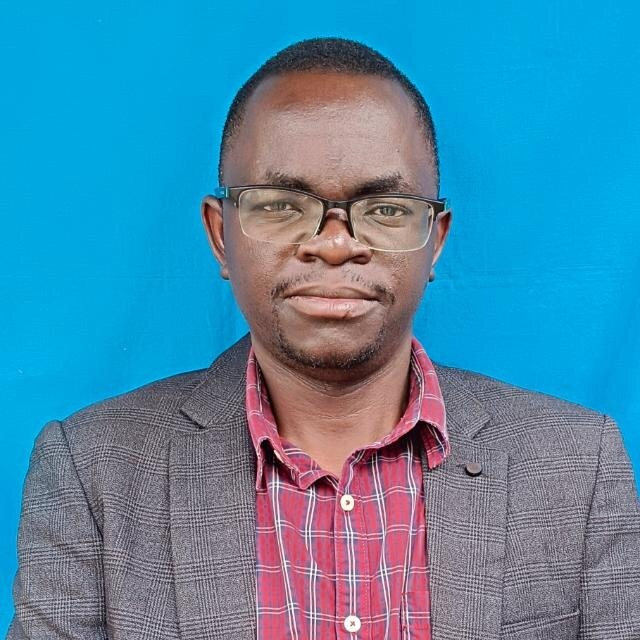
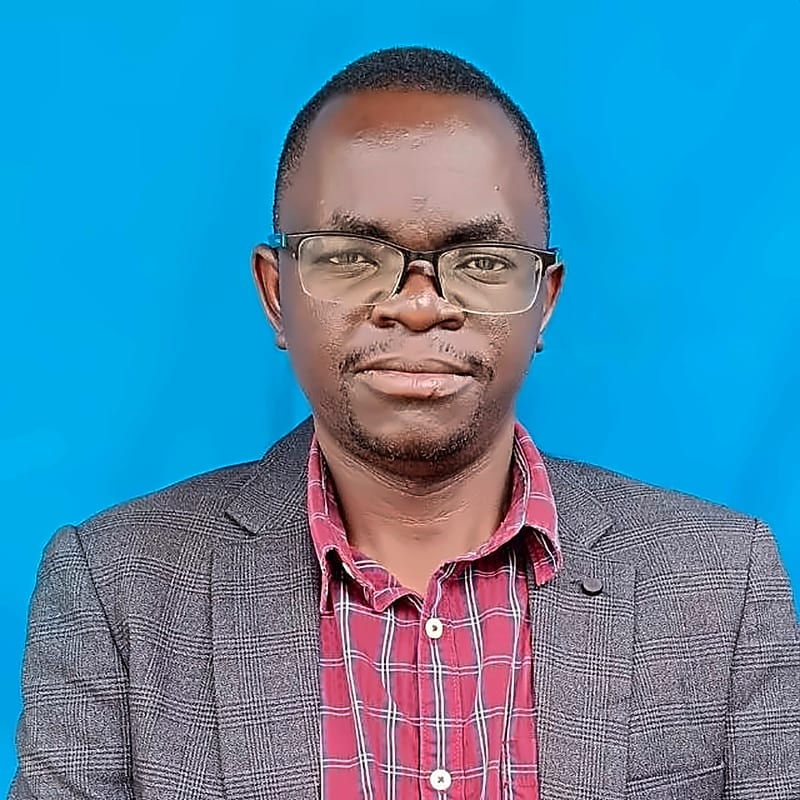
feat(editorial-board): add 12 member photos and wire them to profiles
Adds compressed portraits for bm-01 through bm-12 (Prabhatbhai Kasra,
Neha Nandaniya, Dilipbhai Vasava, Ajitsinh Gohil, Hamis Juma, Edgar
Nderego, Maheshkumar Parmar, Mohsin Garana, Nileshkumar Gohil, Parth
Kapadia, Sanjaykumar Thakor, Mithun Khandwala).

Source PNGs (13.3MB total) were resized to 800px max width and
re-encoded as progressive mozjpeg quality 82, yielding 0.6MB total
(95% smaller) — the board grid loads fast without downgrading portrait
detail on retina. Edgar's earlier ad-hoc extract is replaced with the
better HD source.

Still without a photo: bm-13 Maheshbhai Bharvad, bm-14 Anand Pandya,
bm-15 Bhavin Gadhvi, bm-16 Gopal Bharvad.

diff --git a/app/lib/services/mock/journal.mock.ts b/app/lib/services/mock/journal.mock.ts
@@ -426,7 +426,7 @@ export const editors: Editor[] = [
     email: "prabhatkasra.bed@spec.edu.in",
     profileUrl:
       "https://www.spec.edu.in/specbed/Staff-Profile.aspx?cid=6&sid=336",
-    photoUrl: null,
+    photoUrl: "/editorial-board/prabhat-m-kasra.jpg",
     // Moved from Chief Editor to Editor per client instruction. Kept at
     // displayOrder 2 so he sits at the top of the Editors grid — the senior
     // editor immediately below the new Chief.
@@ -457,7 +457,7 @@ export const editors: Editor[] = [
     bio: "Dr. Neha J. Nandaniya is an academician and researcher specialising in educational psychology, language education, and educational technology, serving as Assistant Professor at M.B. Patel College of Education, Sardar Patel University. With teaching experience across primary, secondary, and higher education, she has published 15 research papers in UGC CARE-listed and peer-reviewed journals and authored five books. As a research supervisor at Sardar Patel University, she continues to mentor scholars and advance teacher education and innovative pedagogy.",
     email: "nehanandaniya@spuvvn.edu",
     profileUrl: "https://www.spuvvn.edu/team/dr-neha-j-nandaniya/",
-    photoUrl: null,
+    photoUrl: "/editorial-board/neha-j-nandaniya.jpg",
     displayOrder: 2,
   },
   {
@@ -488,7 +488,7 @@ export const editors: Editor[] = [
     bio: "Dr. Dilipbhai J. Vasava is a teacher educator, researcher, and author specialising in Education and Hindi Literature, serving as Assistant Professor at M.B. Patel College of Education, Sardar Patel University, with over 12 years of teaching experience. He has authored 13 books, translated two, and published more than 50 research papers in peer-reviewed and UGC CARE-listed journals, and has guided eight M.Ed. dissertations. A member of several academic bodies including the Sardar Patel University Board of Studies, he has participated in over 100 national and international conferences and workshops as a presenter and keynote speaker.",
     email: null,
     profileUrl: "https://www.spuvvn.edu/team/mr-dilipbhai-j-vasava/",
-    photoUrl: null,
+    photoUrl: "/editorial-board/dilipbhai-j-vasava.jpg",
     displayOrder: 3,
   },
   {
@@ -519,7 +519,7 @@ export const editors: Editor[] = [
     // TODO(client): confirm this is the preferred public email
     email: "ajit970@yahoo.com",
     profileUrl: "https://www.vjbped.ac.in/",
-    photoUrl: null,
+    photoUrl: "/editorial-board/ajitsinh-r-gohil.jpg",
     displayOrder: 4,
   },
   {
@@ -542,7 +542,7 @@ export const editors: Editor[] = [
     bio: "Dr. Hamis Juma is an education researcher and learning specialist from Tanzania, serving as Head of Research and Innovation at TUSOME. He holds a Doctorate in Education from Gujarat University, and his work focuses on leveraging technology and innovative methodologies to advance education. He has contributed to global organisations including UNESCO, Open Education Global, and 1 Million Teachers, and has published widely on AI-assisted learning, competence-based assessment, and educational transformation.",
     email: "hamis@tusome.ac.tz",
     profileUrl: "https://tz.linkedin.com/in/hamisjuma",
-    photoUrl: null,
+    photoUrl: "/editorial-board/hamis-juma.jpg",
     displayOrder: 5,
   },
   {
@@ -606,7 +606,7 @@ export const editors: Editor[] = [
     ],
     email: "pro.maheshsparsh@gmail.com",
     profileUrl: null,
-    photoUrl: null,
+    photoUrl: "/editorial-board/maheshkumar-parmar-sparsh.jpg",
     displayOrder: 7,
   },
   {
@@ -631,7 +631,7 @@ export const editors: Editor[] = [
     bio: "Dr. Mohsin S. Garana is an academician specialising in Indian Psychology, Clinical Psychology, and Social Psychology, serving as Assistant Professor at Shree J.L.K. Kotecha Arts College, Shree Govind Guru University, Godhra. With over five years of teaching experience, he has contributed to the field through research, mentorship, and academic discourse, focusing on the application of psychological principles in diverse cultural and clinical settings.",
     email: "mohsingarana@gmail.com",
     profileUrl: null,
-    photoUrl: null,
+    photoUrl: "/editorial-board/mohsin-garana.jpg",
     displayOrder: 8,
   },
   {
@@ -659,7 +659,7 @@ export const editors: Editor[] = [
     // TODO(client): source link pointed to a shared department page also used
     // for another member — confirm correct profile URL.
     profileUrl: "https://ijpmed.ac.in/",
-    photoUrl: null,
+    photoUrl: "/editorial-board/nilesh-n-gohil.jpg",
     displayOrder: 9,
   },
   {
@@ -689,7 +689,7 @@ export const editors: Editor[] = [
     bio: "Mr. Parth S. Kapadia is a young academic and Political Science educator with interdisciplinary qualifications, serving as Assistant Professor of Political Science at Maharshi Dayanand Arts and Commerce College. He holds a B.E. in Mechanical Engineering and a Master's in Political Science with Gandhian Studies (IGNOU), has qualified GSET and UGC-NET, and is pursuing a Ph.D. in Political Science at Hemchandracharya North Gujarat University. His research focuses on Indian politics, democracy, youth participation, Panchayati Raj, and electoral studies, and he has served as an expert with the Chief Electoral Office, Gujarat.",
     email: null,
     profileUrl: "https://in.linkedin.com/in/parth-kapadia-845800171",
-    photoUrl: null,
+    photoUrl: "/editorial-board/parth-s-kapadia.jpg",
     displayOrder: 2,
   },
   {
@@ -719,7 +719,7 @@ export const editors: Editor[] = [
     // TODO(client): same shared link as another member — confirm correct
     // profile URL.
     profileUrl: "https://ijpmed.ac.in/",
-    photoUrl: null,
+    photoUrl: "/editorial-board/sanjaykumar-r-thakor.jpg",
     displayOrder: 11,
   },
   {
@@ -767,7 +767,7 @@ export const editors: Editor[] = [
     ],
     email: "mithun.khandwala@cept.ac.in",
     profileUrl: null,
-    photoUrl: null,
+    photoUrl: "/editorial-board/mithun-u-khandwala.jpg",
     displayOrder: 12,
   },
   {
